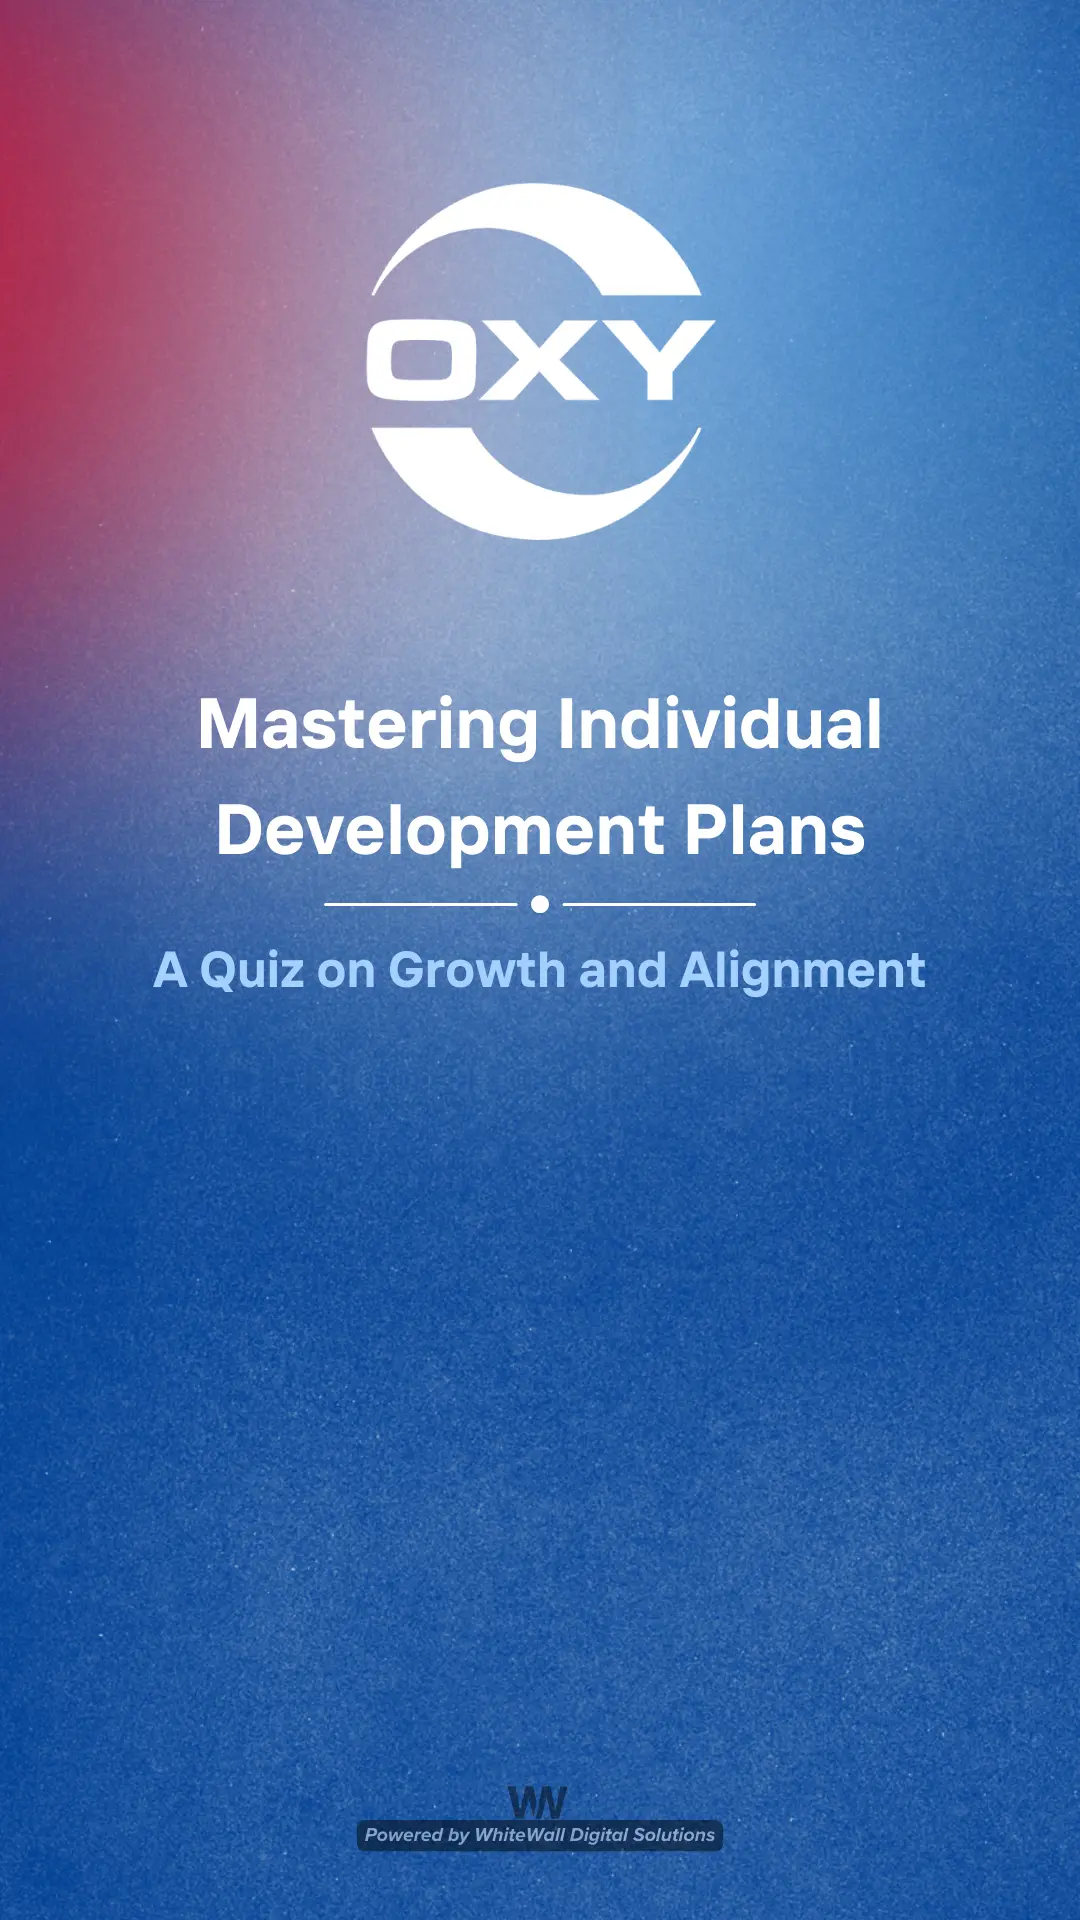
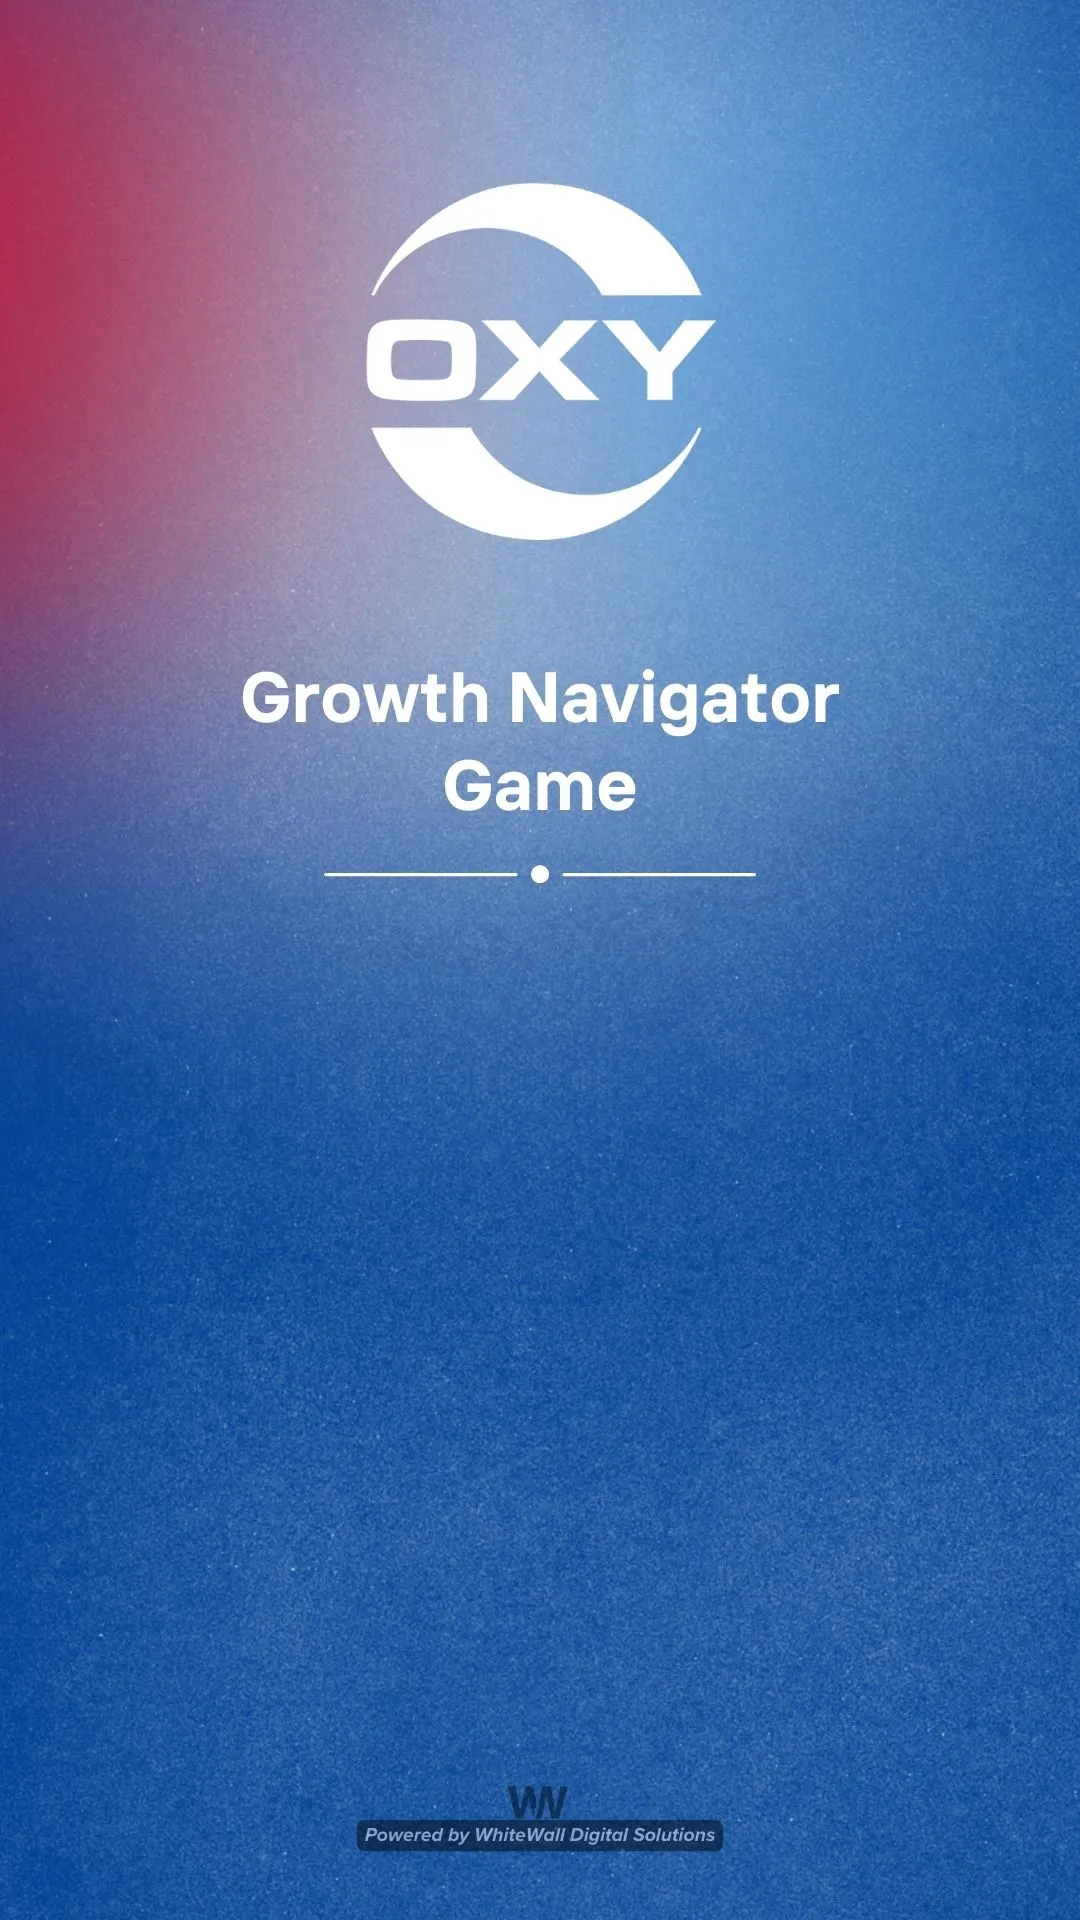
Updated game name and celebration

Changed region(s): [[0.1528, 0.3438, 0.8556, 0.5312]]

diff --git a/src/pages/QuizScreen.js b/src/pages/QuizScreen.js
@@ -1,6 +1,8 @@
 import React, { useState } from "react";
 import { Box, Typography, Button } from "@mui/material";
 import { useNavigate } from "react-router-dom";
+import Confetti from "react-confetti";
+import { motion } from "framer-motion";
 import questions from "../data/questions";
 import oxyLogo from "../assets/oxy-logo-color.webp";
 import successSound from "../assets/correct.wav";
@@ -9,7 +11,6 @@ import celebrateSound from "../assets/celebrateLeaderboard.mp3";
 import Background from "../assets/Background.webp";
 import Leaderboard from "../components/Leaderboard";
 
-// Import mountain images
 import mountain1 from "../assets/mountains/1.png";
 import mountain2 from "../assets/mountains/2.png";
 import mountain3 from "../assets/mountains/3.png";
@@ -41,42 +42,40 @@ function QuizScreen() {
 
   const handleAnswer = (index) => {
     if (soundPlaying) return;
-  
+
     const isCorrect = index === questions[currentQuestion].answer;
     const audio = new Audio(isCorrect ? successSound : wrongSound);
     setSoundPlaying(true);
     setSelectedAnswer(index);
-  
+
     if (!isCorrect) {
       setCorrectAnswerShown(true);
     }
-  
+
     audio.onended = () => {
       setSoundPlaying(false);
-  
+
       if (isCorrect) {
         const newScore = score + 1;
         setScore(newScore);
-  
-        // Check if it’s the last question and all mountains are revealed
+
         const isLastQuestion = currentQuestion + 1 === questions.length;
         if (isLastQuestion && newScore === mountains.length) {
-          // Reveal the last mountain and then handle end-screen logic
           setTimeout(() => {
             const celebrateAudio = new Audio(celebrateSound);
             celebrateAudio.play();
-  
+
             const winners = JSON.parse(localStorage.getItem("winners")) || [];
             winners.push(playerName);
             localStorage.setItem("winners", JSON.stringify(winners));
-  
+
             setMadeToLeaderboard(true);
             setQuizCompleted(true);
-          }, 2000); // Delay to ensure mountain reveal animation completes
+          }, 2000);
           return;
         }
       }
-  
+
       if (currentQuestion + 1 < questions.length) {
         setSelectedAnswer(null);
         setCorrectAnswerShown(false);
@@ -85,25 +84,24 @@ function QuizScreen() {
         setQuizCompleted(true);
         setSelectedAnswer(null);
         setCorrectAnswerShown(false);
-  
+
         if (score + 1 === questions.length) {
           const celebrateAudio = new Audio(celebrateSound);
           celebrateAudio.play();
-  
+
           const winners = JSON.parse(localStorage.getItem("winners")) || [];
           winners.push(playerName);
           localStorage.setItem("winners", JSON.stringify(winners));
-  
+
           setMadeToLeaderboard(true);
         } else {
           setMadeToLeaderboard(false);
         }
       }
     };
-  
+
     audio.play();
   };
-  
 
   return (
     <Box
@@ -158,61 +156,69 @@ function QuizScreen() {
       {/* Leaderboard */}
       <Leaderboard />
 
-      {/* Quiz Completion */}
-      {quizCompleted ? (
-        <Box
-          sx={{
-            position: "absolute",
-            top: 0,
-            left: 0,
-            width: "100%",
-            height: "100%",
-            backgroundColor: "rgba(0, 0, 0, 0.8)",
-            display: "flex",
-            flexDirection: "column",
-            justifyContent: "center",
-            alignItems: "center",
-            padding: { xs: "10px", sm: "20px" },
-            zIndex: 1000,
-          }}
-        >
-          <Typography
-            variant="h3"
-            color="white"
-            fontWeight="bold"
-            textAlign="center"
-            mb={2}
-            sx={{ fontSize: { xs: "1.5rem", sm: "2rem", md: "2.5rem" } }}
-          >
-            {madeToLeaderboard
-              ? `🎉 Congratulations, ${playerName}! 🎉`
-              : "Quiz Completed!"}
-          </Typography>
-          <Typography
-            variant="h5"
-            color="white"
-            textAlign="center"
-            mb={3}
-            sx={{ fontSize: { xs: "1rem", sm: "1.5rem" } }}
-          >
-            {madeToLeaderboard
-              ? "You made it to the leaderboard!"
-              : `You scored ${score} out of ${questions.length}. Better luck next time!`}
-          </Typography>
-          <Button
-            variant="contained"
-            color="primary"
-            onClick={() => navigate("/name")}
-            sx={{
-              padding: { xs: "8px 16px", sm: "10px 20px" },
-              fontSize: { xs: "1rem", sm: "1.2rem" },
-              fontWeight: "bold",
+      {/* End Screen */}
+      {quizCompleted && (
+        <>
+          {madeToLeaderboard && <Confetti width={window.innerWidth} height={window.innerHeight} />}
+          <motion.div
+            initial={{ opacity: 0, scale: 0.8 }}
+            animate={{ opacity: 1, scale: 1 }}
+            transition={{ duration: 0.8 }}
+            style={{
+              position: "absolute",
+              top: 0,
+              left: 0,
+              width: "100%",
+              height: "100%",
+              backgroundColor: "rgba(0, 0, 0, 0.8)",
+              display: "flex",
+              flexDirection: "column",
+              justifyContent: "center",
+              alignItems: "center",
+              padding: "20px",
+              zIndex: 1000,
             }}
           >
-            {madeToLeaderboard ? "Play Again" : "Try Again"}
-          </Button>
-        </Box>
-      ) : (
+            <Typography
+              variant="h3"
+              color="white"
+              fontWeight="bold"
+              textAlign="center"
+              mb={2}
+              sx={{ fontSize: { xs: "1.5rem", sm: "2rem", md: "2.5rem" } }}
+            >
+              {madeToLeaderboard
+                ? `🎉 Congratulations, ${playerName}! 🎉`
+                : "Quiz Completed!"}
+            </Typography>
+            <Typography
+              variant="h5"
+              color="white"
+              textAlign="center"
+              mb={3}
+              sx={{ fontSize: { xs: "1rem", sm: "1.5rem" } }}
+            >
+              {madeToLeaderboard
+                ? "You made it to the leaderboard!"
+                : `You scored ${score} out of ${questions.length}. Better luck next time!`}
+            </Typography>
+            <Button
+              variant="contained"
+              color="primary"
+              onClick={handleRestartClick}
+              sx={{
+                padding: { xs: "8px 16px", sm: "10px 20px" },
+                fontSize: { xs: "1rem", sm: "1.2rem" },
+                fontWeight: "bold",
+              }}
+            >
+              {madeToLeaderboard ? "Play Again" : "Try Again"}
+            </Button>
+          </motion.div>
+        </>
+      )}
+
+      {!quizCompleted && (
         <>
           {/* Question Section */}
           <Box
@@ -286,7 +292,7 @@ function QuizScreen() {
                 onClick={() => handleAnswer(index)}
                 disabled={soundPlaying || selectedAnswer !== null}
               >
-                <Typography
+              <Typography
                   sx={{
                     position: "absolute",
                     top: "-20px",
@@ -318,7 +324,7 @@ function QuizScreen() {
               </Box>
             ))}
           </Box>
-
+          
           {/* Mountains Section */}
           <Box
             sx={{

diff --git a/public/index.html b/public/index.html
@@ -11,7 +11,7 @@
     />
     <link rel="apple-touch-icon" href="%PUBLIC_URL%/logo192.png" />
     <link rel="manifest" href="%PUBLIC_URL%/manifest.json" />
-    <title>Oxy HR Training Game</title>
+    <title>Growth Navigator Game</title>
   </head>
   <body>
     <noscript>You need to enable JavaScript to run this app.</noscript>

diff --git a/src/pages/NameInputScreen.js b/src/pages/NameInputScreen.js
@@ -68,9 +68,7 @@ function NameInputScreen() {
             textShadow: "2px 2px 4px rgba(255, 255, 255, 0.8)",
           }}
         >
-          Welcome to Oxy
-          <br />
-          HR Training{" "}
+          Growth Navigator{" "}
           <Box
             component="span"
             sx={{
